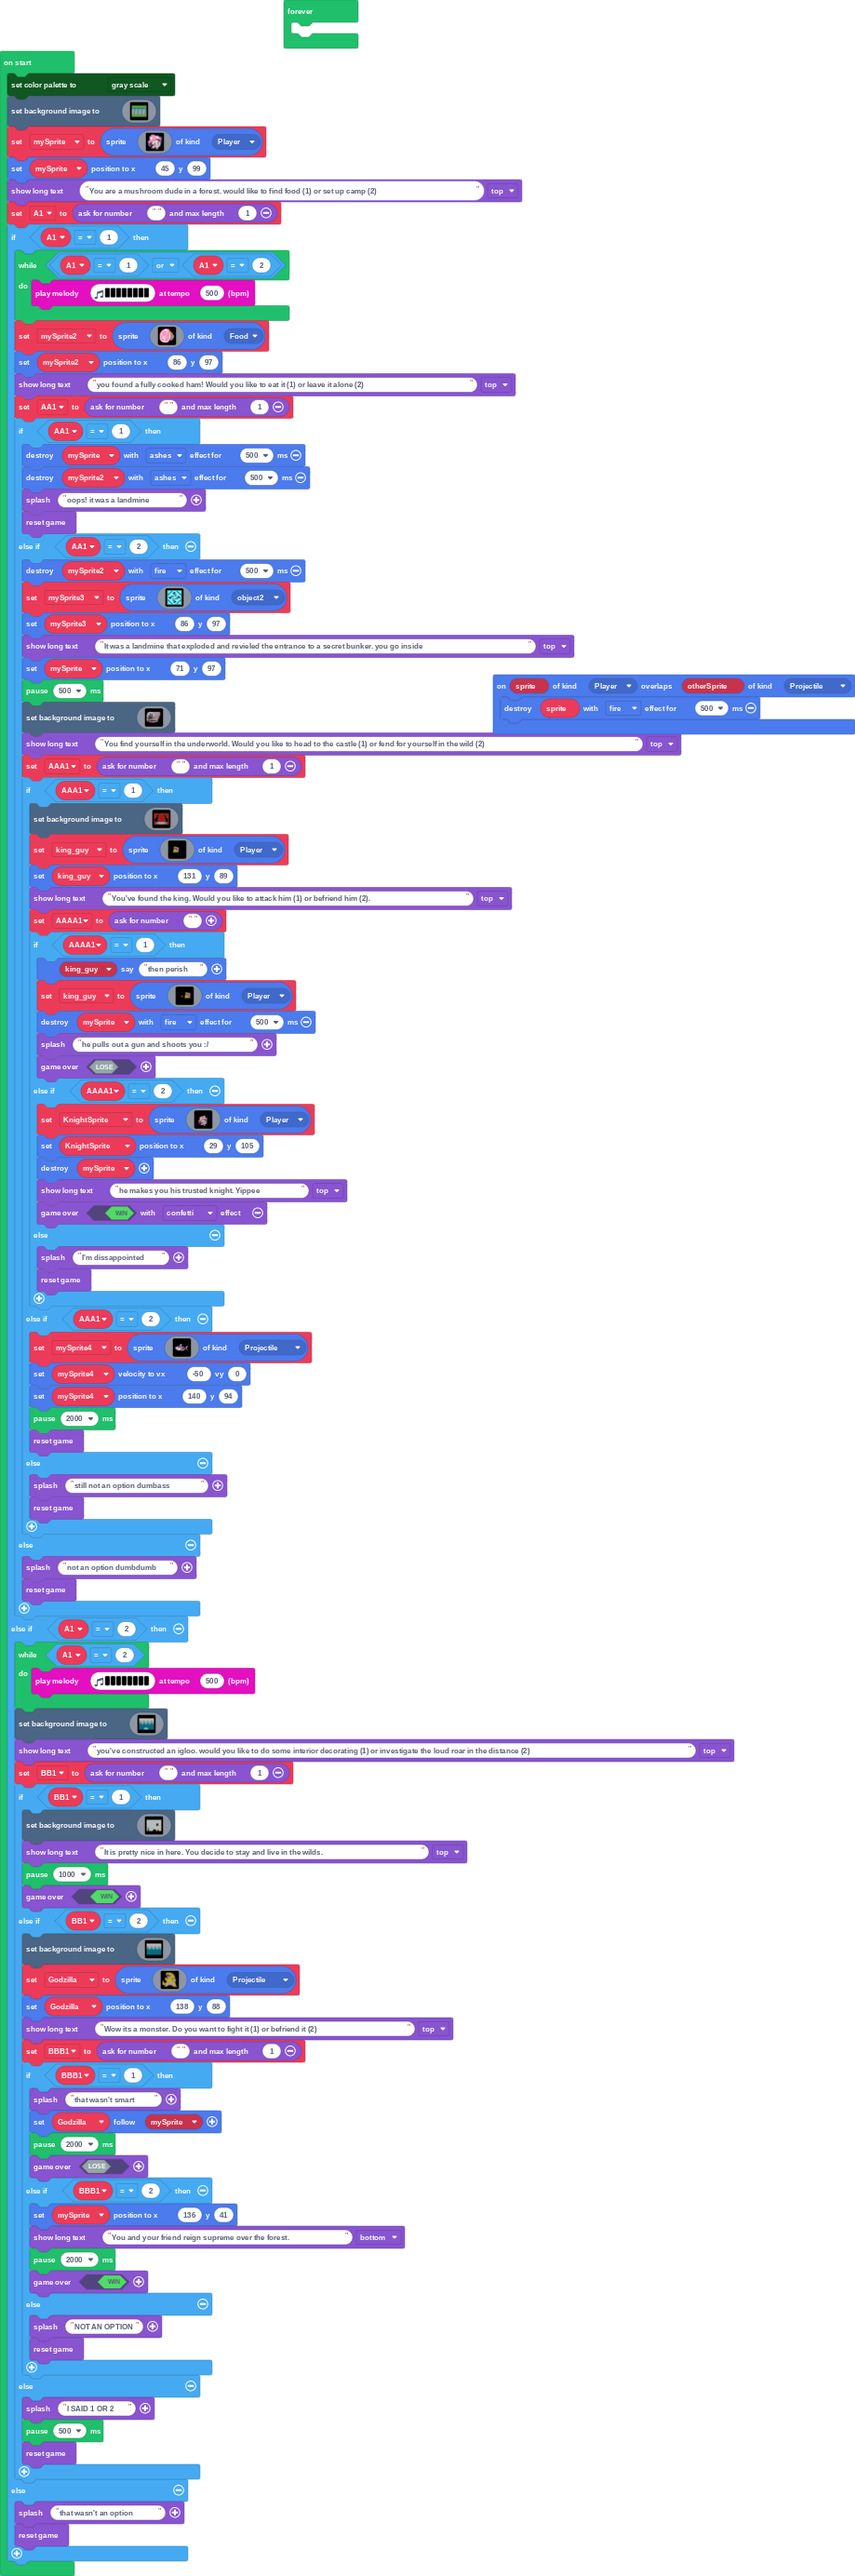
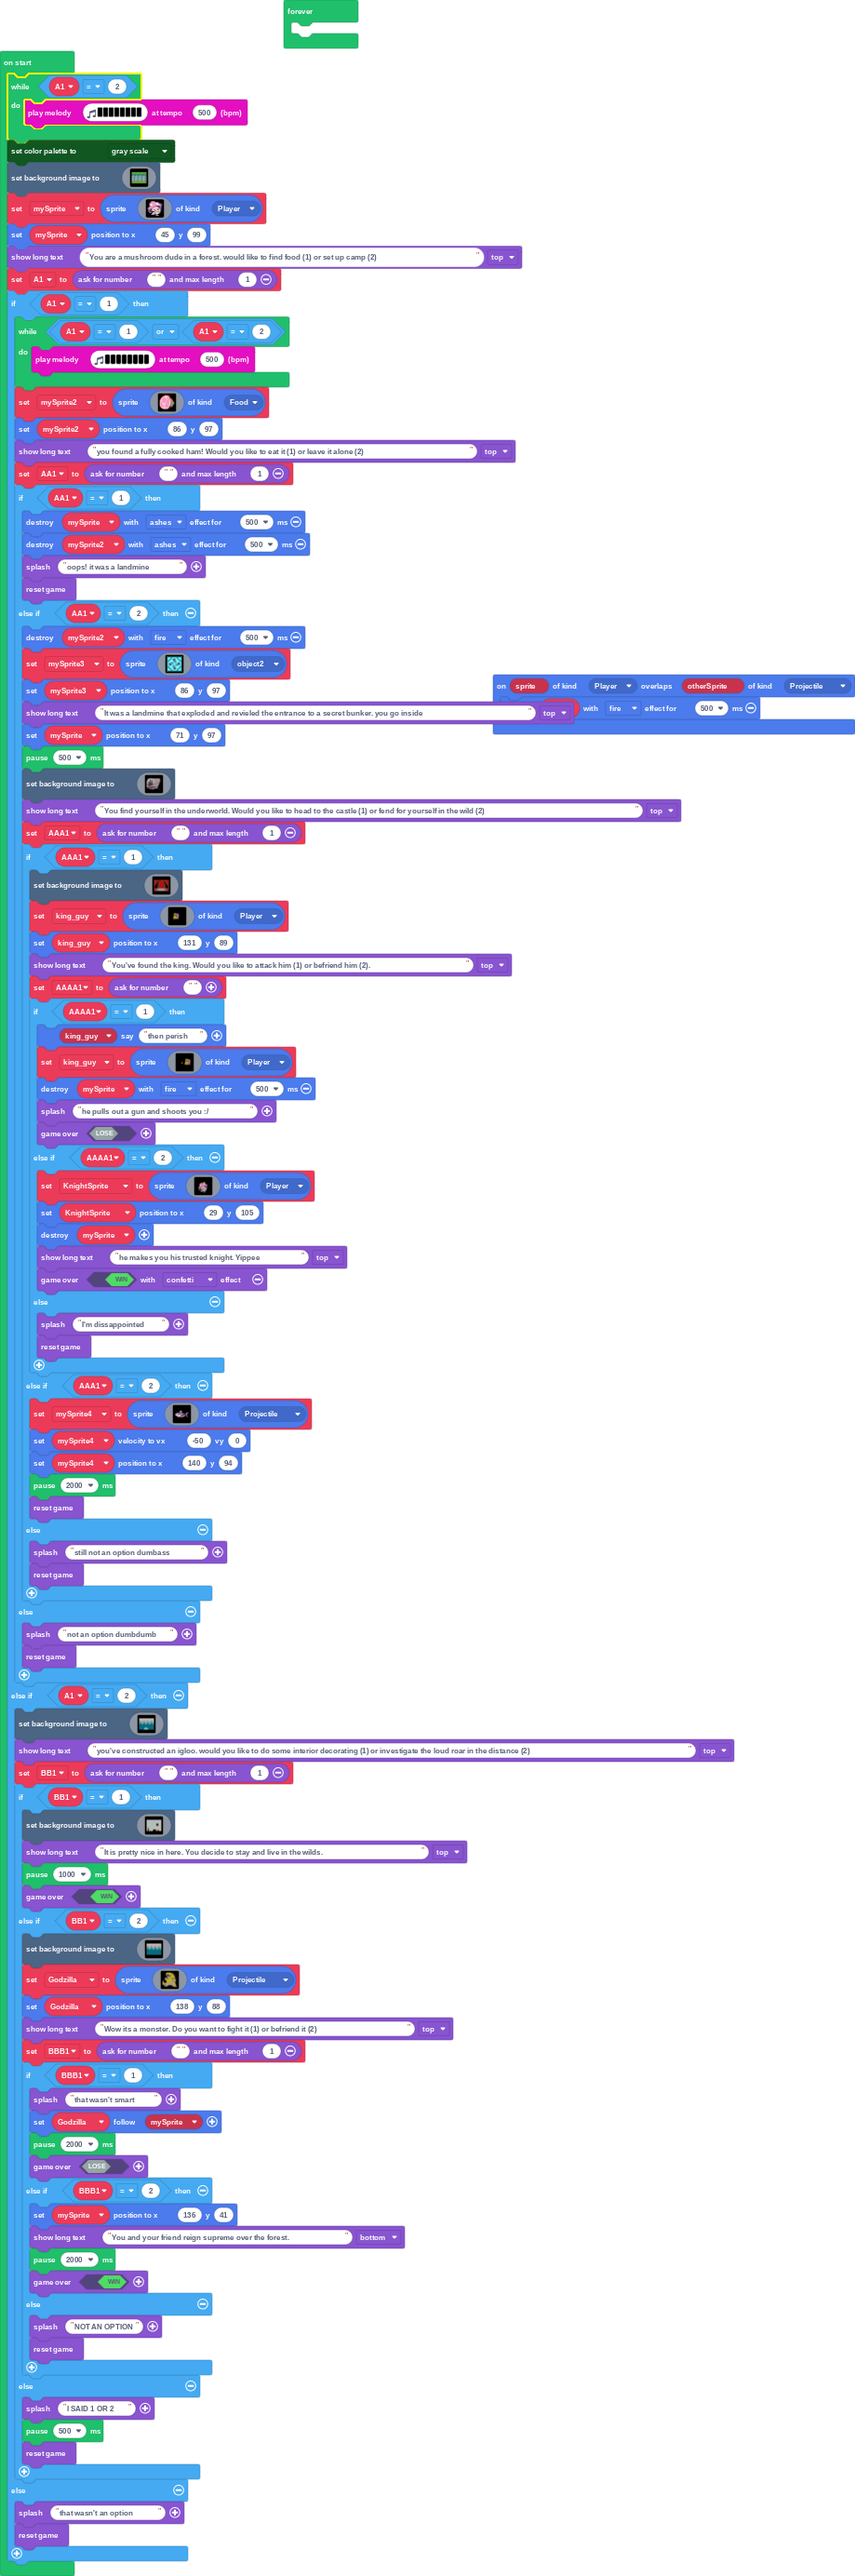
Update main.blocks, main.ts

Changed region(s): [[0.0, 0.0311, 0.7922, 0.6835]]

diff --git a/main.ts b/main.ts
@@ -1,11 +1,6 @@
 namespace SpriteKind {
     export const object2 = SpriteKind.create()
 }
-function ehh () {
-    game.splash("You are stupid")
-    pause(700)
-    game.reset()
-}
 sprites.onOverlap(SpriteKind.Player, SpriteKind.Projectile, function (sprite, otherSprite) {
     sprite.destroy(effects.fire, 500)
 })
@@ -20,6 +15,10 @@ let AAA1 = 0
 let mySprite3: Sprite = null
 let AA1 = 0
 let mySprite2: Sprite = null
+let A1 = 0
+while (A1 == 2) {
+    music.playMelody("A G F G F E D E ", 500)
+}
 color.setPalette(
 color.GrayScale
 )
@@ -165,7 +164,7 @@ let mySprite = sprites.create(img`
     `, SpriteKind.Player)
 mySprite.setPosition(45, 99)
 game.showLongText("You are a mushroom dude in a forest. would like to find food (1) or set up camp (2)", DialogLayout.Top)
-let A1 = game.askForNumber("", 1)
+A1 = game.askForNumber("", 1)
 if (A1 == 1) {
     while (A1 == 1 || A1 == 2) {
         music.playMelody("E F G F F G A B ", 500)
@@ -588,7 +587,8 @@ if (A1 == 1) {
                 game.showLongText("he makes you his trusted knight. Yippee", DialogLayout.Top)
                 game.over(true, effects.confetti)
             } else {
-                ehh()
+                game.splash("I'm dissappointed")
+                game.reset()
             }
         } else if (AAA1 == 2) {
             mySprite4 = sprites.create(img`
@@ -614,15 +614,14 @@ if (A1 == 1) {
             pause(2000)
             game.reset()
         } else {
-            ehh()
+            game.splash("still not an option dumbass")
+            game.reset()
         }
     } else {
-        ehh()
+        game.splash("not an option dumbdumb")
+        game.reset()
     }
 } else if (A1 == 2) {
-    while (A1 == 2) {
-        music.playMelody("A G F G F E D E ", 500)
-    }
     scene.setBackgroundImage(img`
         1111111111111111111111111111111111111111111111111111111111111111111111111111111111111111111111111111111111111111111111111111111111111111111111111111111111111111
         1111111111111111111111111111111111111111111111111111111111111111111111111111111111111111111111111111111111111111111111111111111111111111111111111111111111111111
@@ -1088,13 +1087,17 @@ if (A1 == 1) {
             pause(2000)
             game.over(true)
         } else {
-            ehh()
+            game.splash("NOT AN OPTION")
+            game.reset()
         }
     } else {
-        ehh()
+        game.splash("I SAID 1 OR 2")
+        pause(500)
+        game.reset()
     }
 } else {
-    ehh()
+    game.splash("that wasn't an option")
+    game.reset()
 }
 forever(function () {
 	
